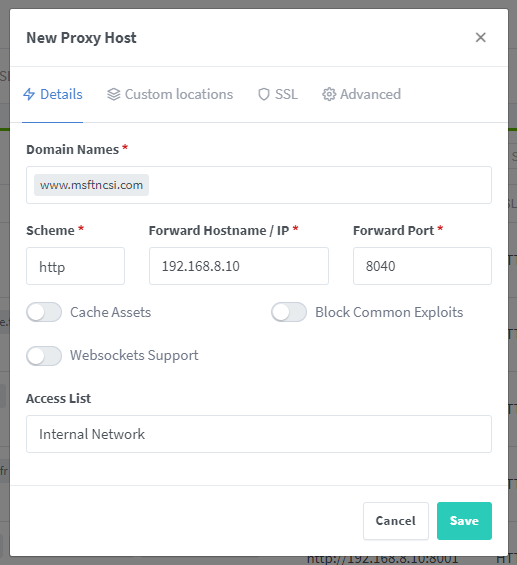
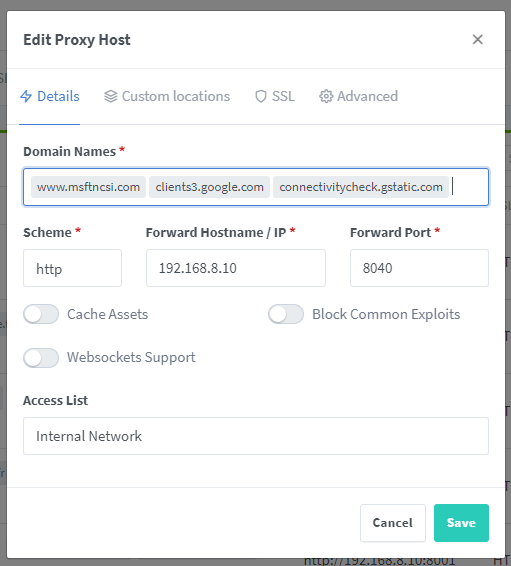
Update documentation and fix request URL for MS checks

diff --git a/src/server.py b/src/server.py
@@ -12,7 +12,7 @@ class Handler(BaseHTTPRequestHandler):
 
     def do_GET(self):
         # curl http://<ServerIP>/index.html
-        if self.path == "/":
+        if self.path == "/" | self.path == "/ncsi.txt":
             # Respond with the file contents.
             self.send_response(200)
             self.send_header("Content-type", "text/html")

diff --git a/readme.md b/readme.md
@@ -21,8 +21,8 @@ Change your internal DNS redirects to ensure that `www.msftncsi.com` points to t
 If your running an internal DNS server like AdGuard, you should also ensure that the following records exist:
 
 - `dns.msftncsi.com` resolves to `131.107.255.255`
-- `clients3.google.com` resolves to your container
 - `www.msftncsi.com` resolves to your container
+- `clients3.google.com` resolves to your container
 - `connectivitycheck.gstatic.com` resolves to your container
 
 ![DNS Configuration](docs/dns-configuration.png)
@@ -44,3 +44,7 @@ The order of events appears to be slightly different depending on whether the wi
 ### Android / Chromium
 
 Shill, the connection manager for Chromium OS, attempts to detect services that are within a captive portal whenever a service transitions to the ready state. This determination of being in a captive portal or being online is done by attempting to retrieve the webpage `http://clients3.google.com/generate_204`. This well known URL is known to return an empty page with an HTTP status 204. If for any reason the web page is not returned, or an HTTP response other than 204 is received, then shill marks the service as being in the portal state.
+
+### iOS
+
+> The URL that needs to be replicated is captive.apple.com/hotspot-detect.html, and it needs to respond with a 200 and exactly the following content: "<HTML><HEAD><TITLE>Success</TITLE></HEAD><BODY>Success</BODY></HTML>"
